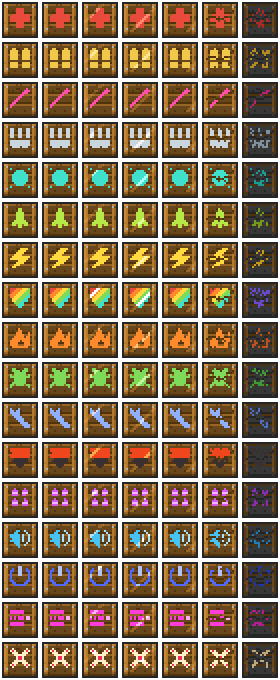
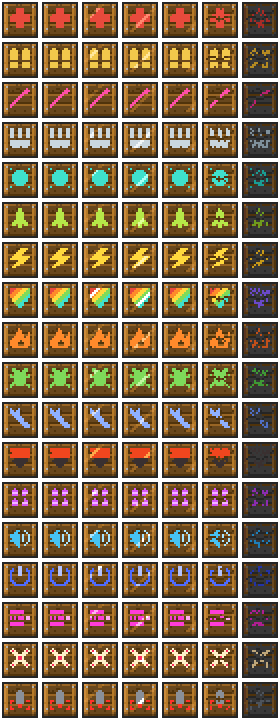
The rod from god's supply crate: a tungsten rod falling into red corner brackets (BB-41)

diff --git a/tools/spritegen/gen_crates.py b/tools/spritegen/gen_crates.py
@@ -13,19 +13,19 @@ are the Puny palette; the symbols are the loud, off-palette inks of
 sheets alone - the pickups' old exemption, kept for the one part that has
 to be spotted at a glance.
 
-crates_sheet.png, 7 columns x 17 rows of 40 px:
+crates_sheet.png, 7 columns x 18 rows of 40 px:
 
     row = PickupKind in declaration order (health, ammo, laser, minigun,
           plasma, missiles, speedup, shield, flamethrower, frog_health,
           tower_pack, heat_shield, grenades, sonic_hammer, emp_burst,
-          gauss_rail, fpv_swarm)
+          gauss_rail, fpv_swarm, rod_from_god)
     col 0    the crate
     col 1-4  a glint sweeping the lid from top left to bottom right, a band
              of design pixels one ramp step lighter (the idle)
     col 5    damaged: a split plank, a cracked batten, paint chipped
     col 6    charred: what a fire leaves before the crate breaks
 
-pickup_glyphs.png, 1 column x 17 rows of 24 px, the same row order: the
+pickup_glyphs.png, 1 column x 18 rows of 24 px, the same row order: the
 10 x 10 symbol on its own - its ink, lit along the top, shaded along the bottom,
 with the outline - for what rises out of an opened crate, a spilled one,
 the HUD's weapon queue and the builder's brushes.
@@ -54,7 +54,7 @@ TOKEN = SIDE + 2    # design pixels per symbol cell side (the symbol and its out
 # PickupKind's declaration order: the sheets' row order.
 KINDS = ['health', 'ammo', 'laser', 'minigun', 'plasma', 'missiles', 'speedup', 'shield', 'flamethrower',
          'frog_health', 'tower_pack', 'heat_shield', 'grenades', 'sonic_hammer', 'emp_burst', 'gauss_rail',
-         'fpv_swarm']
+         'fpv_swarm', 'rod_from_god']
 
 # The symbols, 10 x 10 design pixels each.
 GLYPHS = {
@@ -246,6 +246,21 @@ GLYPHS = {
         'XoX....XoX',
         '.X......X.',
     ],
+    # A tungsten rod falling point first into a reticle's four corner
+    # brackets, its hot tip and the brackets (`o`) in the ink's light - the
+    # designator's red.
+    'rod_from_god': [
+        '....XX....',
+        '...XXXX...',
+        '...XXXX...',
+        '...XXXX...',
+        '...XXXX...',
+        'oo.XXXX.oo',
+        'o..XXXX..o',
+        '....oo....',
+        'o...oo...o',
+        'oo......oo',
+    ],
     # Two rails, and the slug leaving their mouth: its trail between them
     # and its white-hot head (`o`) in the ink's light.
     'gauss_rail': [
@@ -281,7 +296,11 @@ HEAT_TOP = 5
 # Kinds whose ink's light is a second colour of the symbol - its lamps -
 # rather than a highlight: a glint whitens the body and leaves the lamps,
 # and the token keeps the lamps in that colour.
-LAMP_TONE = {'fpv_swarm'}
+LAMP_TONE = {'fpv_swarm', 'rod_from_god'}
+
+# Two-tone kinds whose body is lit along its top in a step of its own
+# rather than in the lamps' colour: the rod's tungsten.
+BODY_LIGHT = {'rod_from_god': pp.STONE_LT}
 
 # The crate, 20 x 20 design pixels: three planks between two battens, nailed
 # at the corners. Lid rows 2-15 inside the outline, the front face rows
@@ -458,7 +477,7 @@ def token(kind):
                 elif lamp(kind, x, y):
                     c = ink(kind)[2] if kind in LAMP_TONE else pp.WHITE
                 elif not on(kind, x, y - 1):
-                    c = ink(kind)[2]
+                    c = BODY_LIGHT.get(kind, ink(kind)[2])
                 elif not on(kind, x, y + 1):
                     c = ink(kind)[0]
                 else:

diff --git a/tools/punypalette.py b/tools/punypalette.py
@@ -256,6 +256,16 @@ PICKUP_INK = {
     # silver, so it stays off the minigun's grey-blue. The light is the
     # lamps' crimson, which is also the HUD's accent.
     'fpv_swarm': ((0xBF, 0xA7, 0x7A), (0xFF, 0xF0, 0xC8), (0xFF, 0x2D, 0x5F)),
+    # The rod from god (docs/rod-from-god.md): two-tone, like the swarm - a
+    # tungsten rod in a dark steel grey, falling into the designator's red
+    # corner brackets (the reticle a player steers, `pyro::LASER_RED`'s
+    # base). No single loud hue is left that sits off a neighbour: coral and
+    # salmon read as the health cross's light, ultramarine as the EMP's
+    # cobalt, teal as the plasma, and green is the grass's. A grey body with
+    # red corners is a pattern no other crate has; the grey is darker than
+    # the minigun's pale grey-blue, so the two never read alike. The light
+    # is the brackets' red, which is also the HUD's accent.
+    'rod_from_god': ((0x4E, 0x54, 0x5C), (0x8A, 0x90, 0x99), (0xFF, 0x32, 0x28)),
 }
 # The rainbow shield's symbol, swept corner to corner like the old icon.
 PICKUP_RAINBOW = ((0xE8, 0x4A, 0x3C), (0xFF, 0x8A, 0x2B), (0xFF, 0xD9, 0x3D), (0x7E, 0xDB, 0x5A),
